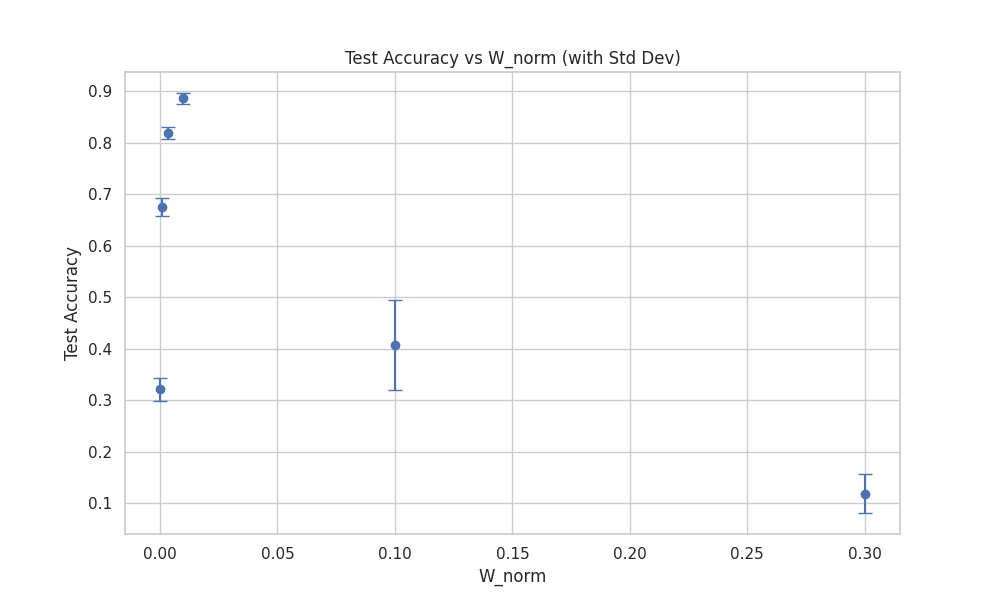
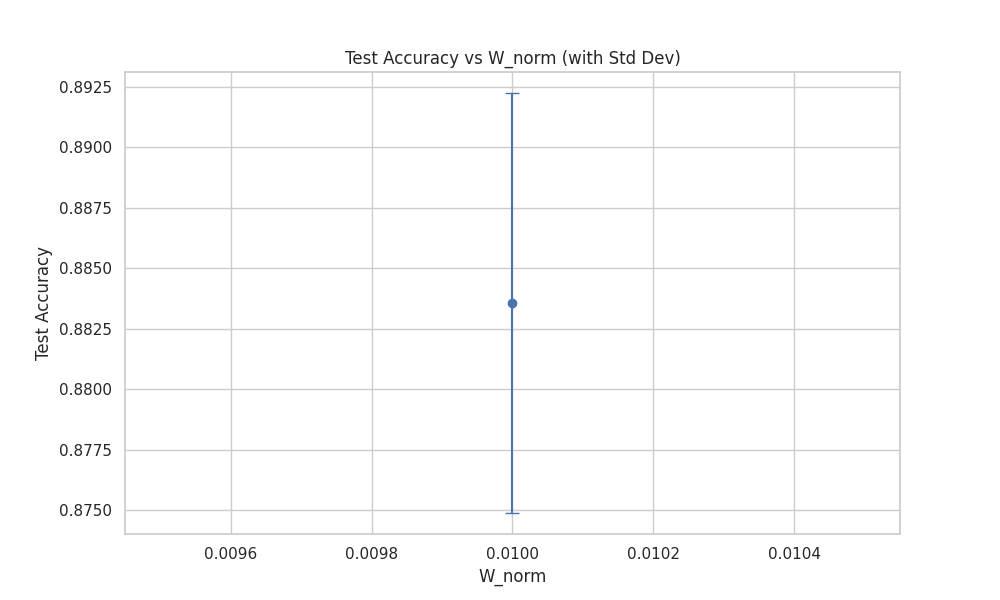
Updated anti hebbian rule

diff --git a/models/learning.py b/models/learning.py
@@ -62,17 +62,8 @@ def update_weight_softhebb(input, preactivation, output, weight, target=None,
     elif inhibition == Inhibition.Softmax:
         u = preactivation
 
-    ### Anti hebbian test: 
-    max_values, indices = torch.max(output, dim=1, keepdim=True)
-    # Create a mask where the maximum values are located
-    mask = torch.zeros_like(output, dtype=torch.bool)
-    mask.scatter_(1, indices, True)
-    # Set the non-maximum values to negative
-    anti_hebbian_output = torch.where(mask, output, -output)
-
-
     #deltas = multiplicative_factor * output * (input - torch.matmul(torch.relu(u), W).reshape(b, indim))
-    deltas = (multiplicative_factor * anti_hebbian_output).reshape(b, outdim, 1) * (input - torch.matmul(torch.relu(u), W)).reshape(b, 1, indim)
+    deltas = (multiplicative_factor * output).reshape(b, outdim, 1) * (input - torch.matmul(torch.relu(u), W)).reshape(b, 1, indim)
     delta = torch.mean(deltas, dim=0)
     return delta
 
@@ -112,12 +103,20 @@ def update_softhebb_w(y, normed_x, a, weights, inhibition: Inhibition, u=None, t
     
     batch_dim, in_dim = normed_x.shape
     batch_dim, out_dim = a.shape
+
+    ### Anti hebbian test: 
+    max_values, indices = torch.max(y_part, dim=1, keepdim=True)
+    # Create a mask where the maximum values are located
+    mask = torch.zeros_like(y_part, dtype=torch.bool)
+    mask.scatter_(1, indices, True)
+    # Set the non-maximum values to negative
+    anti_hebbian_output = torch.where(mask, y_part, -y_part)
         
     # Innefficient. We are trying to calculate it in a more memory efficient way.
     # delta_w = factor * y_part * x.reshape(batch_dim, 1, in_dim) - a.reshape(batch_dim, out_dim, 1) * normalized_weights.reshape(1, out_dim, in_dim)
     
-    ya = torch.mean(y_part * a, dim=0).reshape(out_dim, 1)
-    yx = (1/batch_dim) * torch.matmul(y_part.T, normed_x)
+    ya = torch.mean(anti_hebbian_output * a, dim=0).reshape(out_dim, 1)
+    yx = (1/batch_dim) * torch.matmul(anti_hebbian_output.T, normed_x)
     delta_w = factor * (yx - ya * normed_weights)
     delta_w = torch.mean(delta_w, dim=0) # average the delta weights over the batch dim
 

diff --git a/MLP_train.py b/MLP_train.py
@@ -279,7 +279,7 @@ def test_loop(model, train_dataloader, test_dataloader, metrics, args, checkpoin
                 )
                 print("Model " + str(int(os.environ["RANK"])) + " has testing accuracy of " + str(pct_test_correct))
 
-                csv_file_path = "/root/HebbianTopDown/MLP_hyper_search/fashion_mnist_results.csv"
+                csv_file_path = "/root/HebbianTopDown/MLP_hyper_search/anti_hebbian_results.csv"
                 file_exists = os.path.isfile(csv_file_path)
 
                 with open(csv_file_path, "a", newline="") as csvfile:

diff --git a/models/MLP/plot_with_mean.py b/models/MLP/plot_with_mean.py
@@ -3,14 +3,14 @@ import matplotlib.pyplot as plt
 import seaborn as sns
 import os
 
-data = pd.read_csv("MLP_hyper_search/multi_layer_results.csv", usecols=range(11))
+data = pd.read_csv("MLP_hyper_search/anti_hebbian_results.csv", usecols=range(10))
 
 sns.set(style="whitegrid")
 
 output_folder = "plots"
 os.makedirs(output_folder, exist_ok=True)
 
-parameters = ['num_layers']
+parameters = ['w_norm']
 
 for param in parameters:
     plt.figure(figsize=(10, 6))
